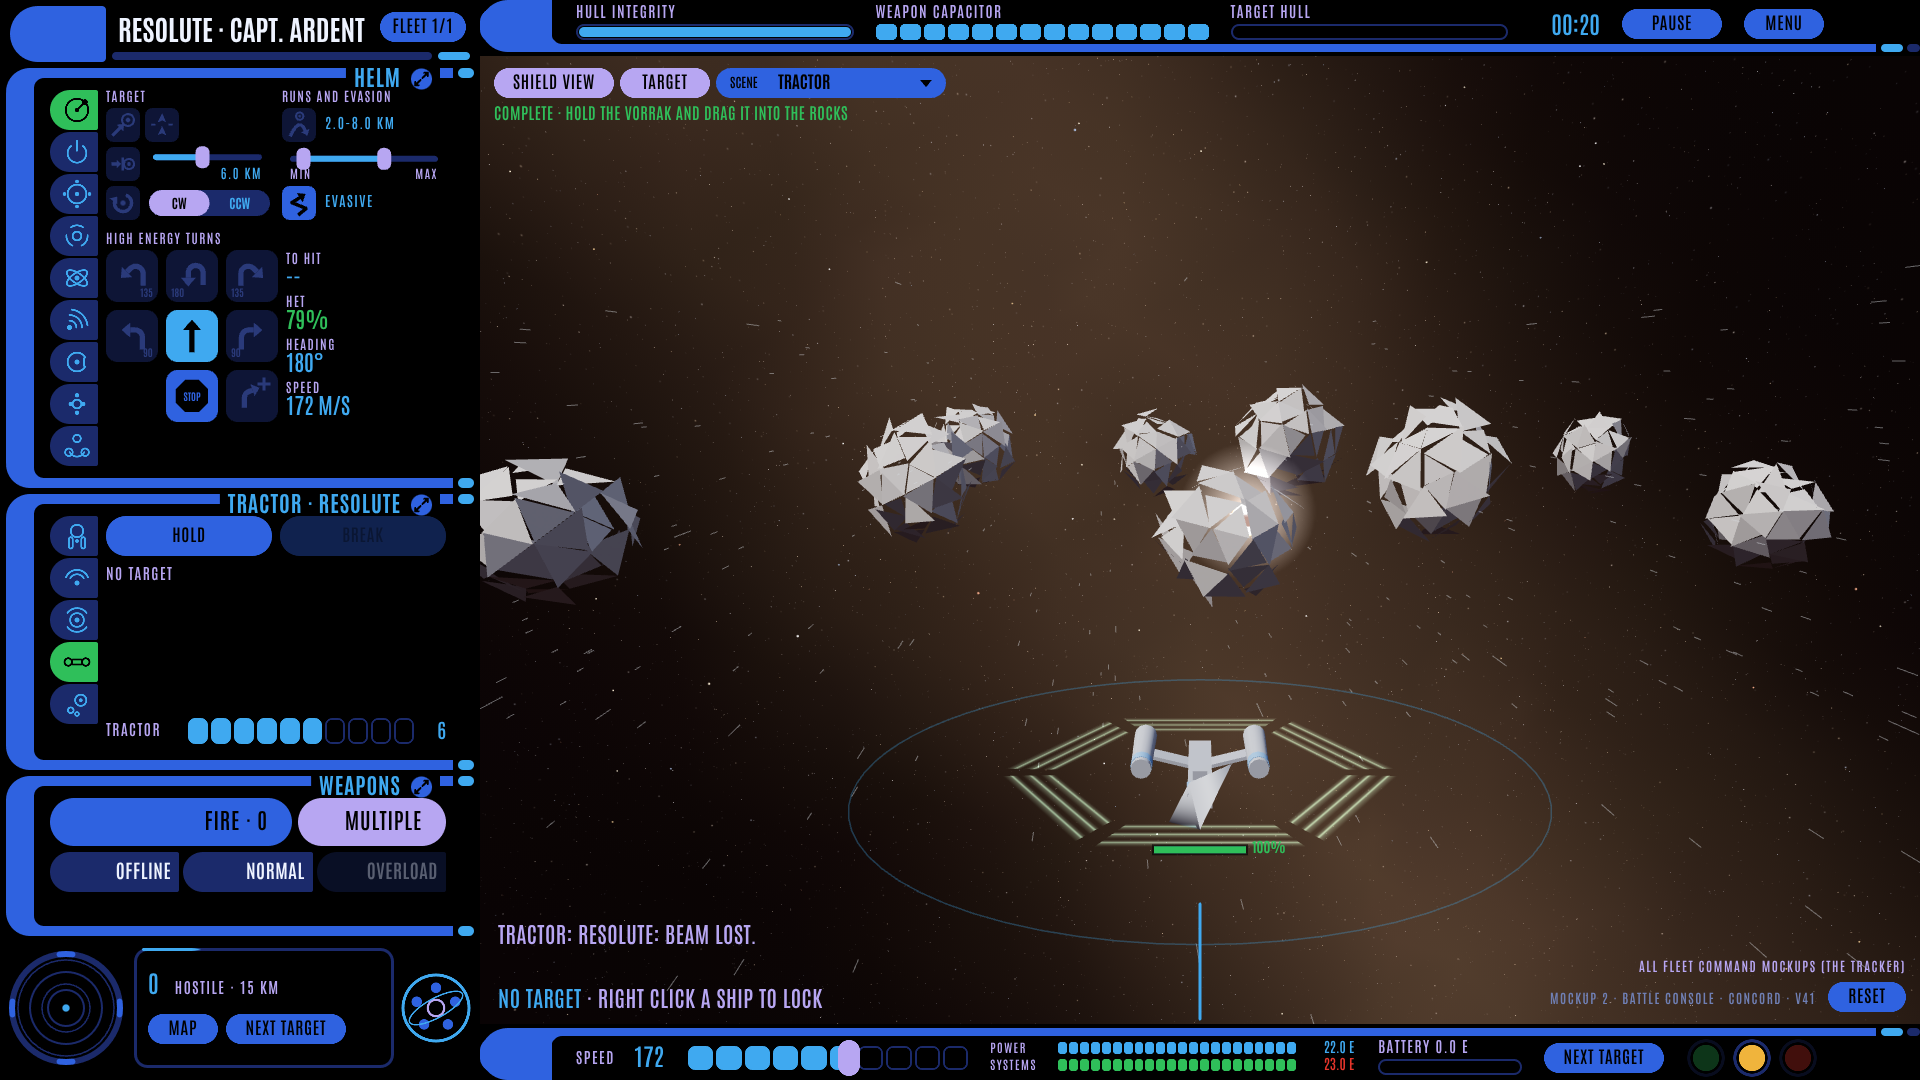
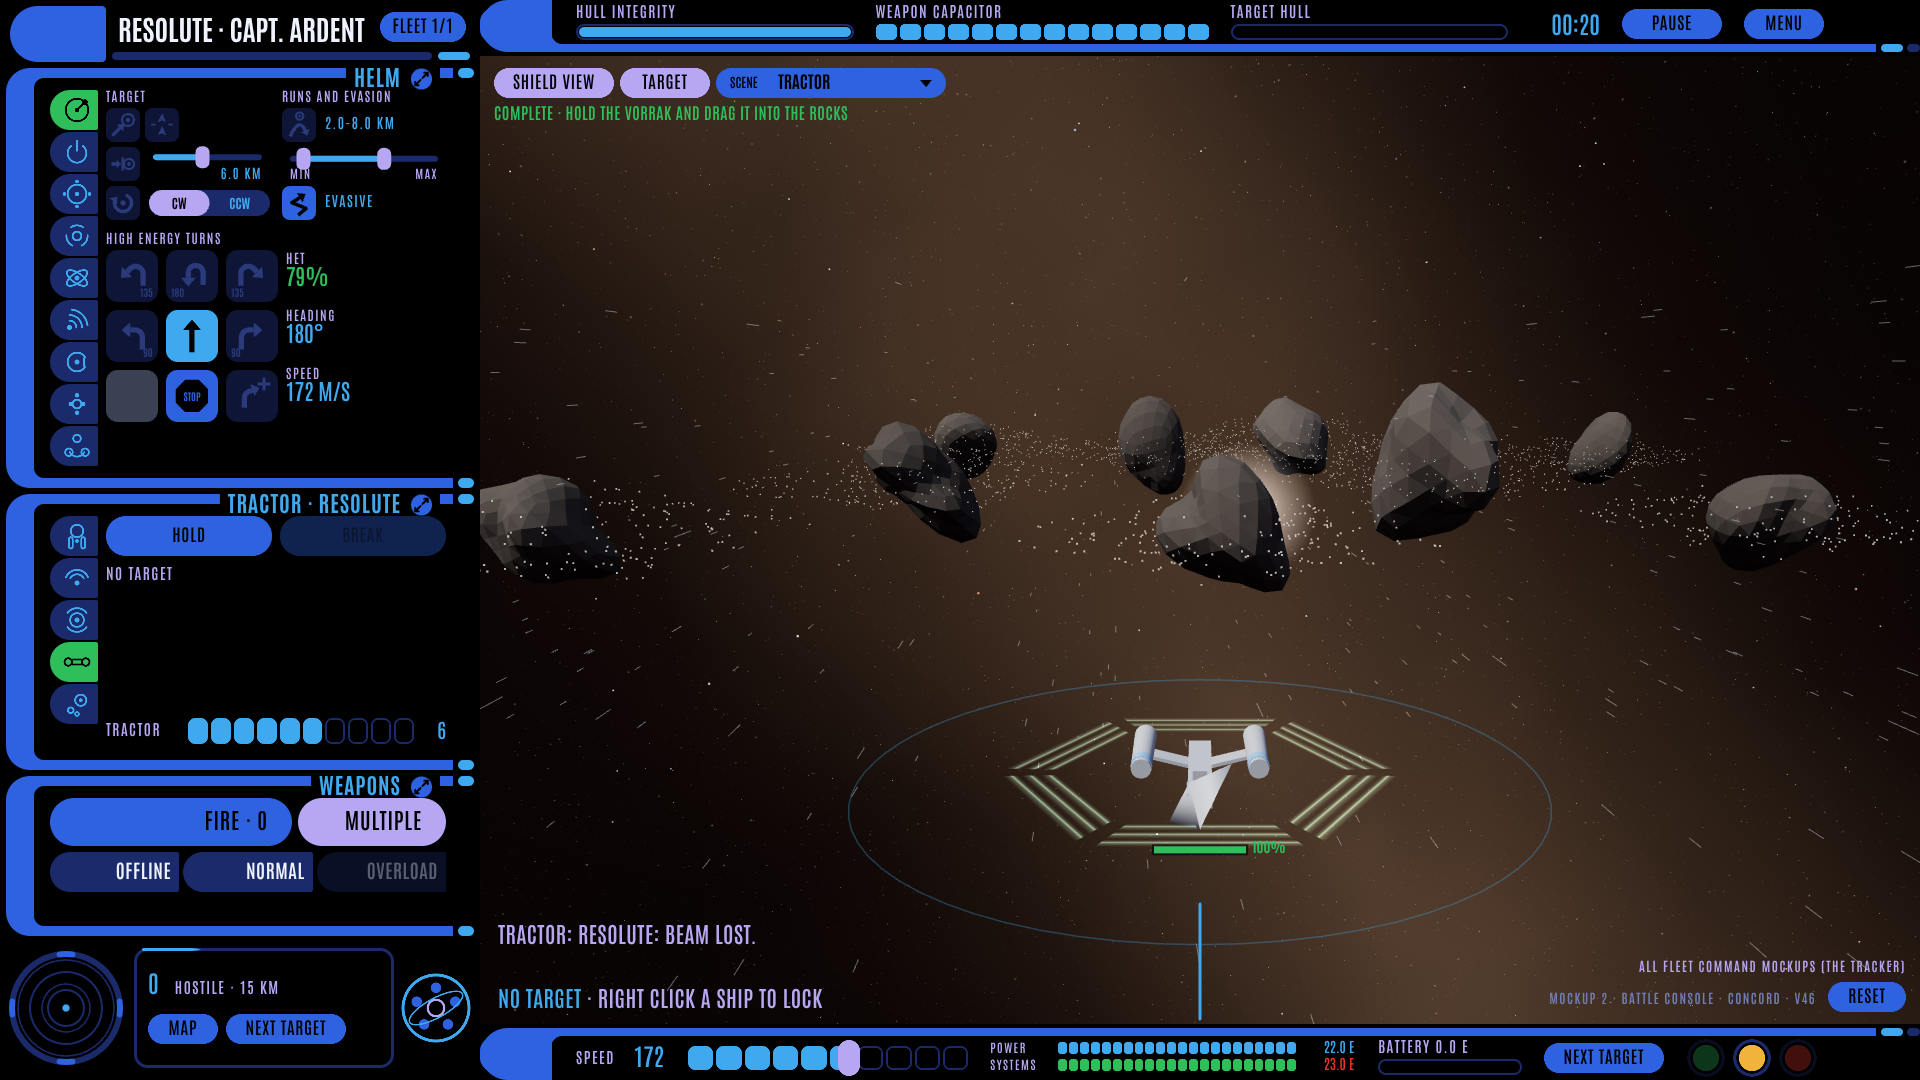
Battle console v46: asteroids rebuilt, micrometeor clouds, no target at the start, an X to release it
Claude-Session: https://claude.ai/code/session_01RGPQuqAYNNJKpzbbbZ3BfB

diff --git a/docs/mockups/battle-console.html b/docs/mockups/battle-console.html
@@ -553,7 +553,11 @@ const TRANSPORT = { range_km: 4 };
 // it, scaled by the speed of the impact (floored, so a nudge still counts), and cuts the ship's speed; one collision
 // per ship per cooldown_s. A ship towed by a tractor beam hits at the speed it is dragged, which is what makes
 // swinging a prisoner into a rock a piloting problem.
-const ROCK = { dmg: 14, speed_ref_m_s: 150, speed_floor: 0.35, speed_frac: 0.3, cooldown_s: 1.5 };
+// The micrometeor cloud round each rock (owner, 2026-11-02: "near asteroids are micro meteor clouds which can damage
+// hull/ship. they are scattered by density depending on how close you fly to a rock"; after the-federation docs/13 3.1,
+// "the halo grinds"): out to halo_x times the rock's radius; inside it a ship takes grind_dps, from 0 at the halo's edge
+// to full at the rock, times its speed over speed_ref (at least grind_floor of it), on the facing along its course.
+const ROCK = { dmg: 14, speed_ref_m_s: 150, speed_floor: 0.35, speed_frac: 0.3, cooldown_s: 1.5, halo_x: 3, grind_dps: 6, grind_floor: 0.2, grit_per_u: 90 };
 // Boarding (after the-federation's boarding.gd and docs/01 section 8, and the owner's survey answers B14 and B15):
 // marines beam through a downed shield facing, inside transporter range. Hit and run: a squad of combat marines and
 // demolition marines goes to one subsystem for raid_s. Shooting it up takes shoot_per_marine off it for each combat
@@ -754,7 +758,9 @@ function newWorld(id = sceneId) {
     rocks: (sc.rocks || []).map((r) => ({ ...r })).concat(planets.map((pl) => ({ x: pl.x, z: pl.z, r: pl.r, name: pl.name, planet: true }))),
     rand: { hit: rng(SCENARIO.seed + 1), dmg: rng(SCENARIO.seed + 2), ai: rng(SCENARIO.seed + 3), reactor: rng(SCENARIO.seed + 4), warp: rng(Math.imul(SCENARIO.seed + 5, 0x9e3779b1) >>> 0), helm: rng(Math.imul(SCENARIO.seed + 6, 0x9e3779b1) >>> 0) } }; // the warp stream's seed is mixed: a plain seed + 5 starts on 0.014, failing nearly any first jump
   W.player = W.ships[0];
-  W.player.target = sc.target;
+  // no target at the start: the captain picks one (owner, 2026-11-02: "I cant really tell if I selected an enemy because
+  // you autoselected from the start"); the scripted shots set theirs
+  W.player.target = null;
   for (const s of W.ships) if (s.side === 1) s.ecm = 1;
   if (sc.setup) sc.setup(W);
   if (sc.armed === false) W.player.mounts = [];
@@ -889,6 +895,13 @@ function hullR(s) { return CLASSES[s.cls].len_m / M_PER_U * 0.35; }
 function rocksStep() {
   for (const s of W.ships) {
     if (!s.alive) continue;
+    // the grind of the micrometeor clouds, gathered and dealt in whole points so the log does not chatter
+    let grind = 0, inCloud = false;
+    for (const r of W.rocks) { if (r.planet) continue; const d = Math.hypot(s.x - r.x, s.z - r.z), halo = r.r * ROCK.halo_x;
+      if (d < halo) { inCloud = true; const f = clamp((halo - d) / (halo - r.r), 0, 1), spd = Math.max(ROCK.grind_floor, Math.abs(s.v) / ROCK.speed_ref_m_s); grind = Math.max(grind, ROCK.grind_dps * f * spd * DT); } }
+    if (inCloud && !s.inCloud && s === W.player) say('Helm', 'Into a micrometeor cloud: the shields are taking grit.');
+    s.inCloud = inCloud; s.grit = (s.grit || 0) + grind;
+    if (s.grit >= 2) { const f = fwd(s.h), dmgG = Math.floor(s.grit); s.grit -= dmgG; damage(s, { x: s.x + f[0] * 5, z: s.z + f[1] * 5, side: -1 }, dmgG, 'hull'); }
     for (const r of W.rocks) {
       const dx = s.x - r.x, dz = s.z - r.z, d = Math.hypot(dx, dz) || 1e-6, R = r.r + hullR(s);
       if (d >= R) continue;
@@ -1205,6 +1218,8 @@ const A = {
   // right click. Clicking and dragging camera around frees up the lock").
   lock: (id) => { const s = W.player, t = ship(id); if (!t || !t.alive || t.side === s.side) return; s.target = id; focus = id; camLock = true; say('Tactical', `Target locked: ${t.name}.`); },
   // The camera lock on its own, from the Target box ("you can lock again under the enemy ship systems view box").
+  // release the target (the X on the Target box): no target, the camera back on your ship
+  unlock: () => { const s = W.player, t = tgt(s); if (!t) return; s.target = null; camLock = false; camTargetView = false; s.engaged = false; say('Tactical', `Target released: ${t.name}.`); },
   // camera lock: back to your own ship (out of target view) and turned to face the target
   camLock: () => { const on = !camLock || camTargetView; camTargetView = false; camLock = on && !!tgt(W.player); },
   // target view: the camera glides to the target and orbits it; off, it glides back to your ship
@@ -2704,23 +2719,45 @@ function explosionsStep(dt) {
 }
 function boomAt(x, z, size) { const sp = new THREE.Sprite(new THREE.SpriteMaterial({ map: glowTex, color: 0xffb070, blending: THREE.AdditiveBlending, depthWrite: false, transparent: true })); sp.position.set(x, 0, z); scene.add(sp); booms.push({ sp, t: 0, size }); }
 const SHOT_POOL = {};
-// Asteroids in the 3D view: a lumpy grey rock per W.rocks entry, rebuilt when the world changes.
-let ROCKS3D = null, rocksFor = null;
+// The rocks (owner, 2026-11-02: "asteroid meshes need work!"): each rock's surface is pushed in and out by one smooth
+// noise of direction, so neighbouring faces stay joined (the first version jittered every triangle's corners apart, and
+// the rocks read as shattered shards); a squash and a lean per rock, craters as dents, a mottled grey-brown per rock.
+// Round each, its micrometeor cloud: fine grit, densest near the rock, thinning to its halo, drifting slowly.
+let ROCKS3D = null, rocksFor = null, GRIT = [];
 function syncRocks() {
   if (rocksFor === W) return; rocksFor = W;
-  if (ROCKS3D) scene.remove(ROCKS3D); ROCKS3D = new THREE.Group(); scene.add(ROCKS3D);
+  if (ROCKS3D) scene.remove(ROCKS3D); ROCKS3D = new THREE.Group(); scene.add(ROCKS3D); GRIT = [];
   const R = rng(SCENARIO.seed + 9);
   for (const r of W.rocks) {
     if (r.planet) continue;
-    const geo = new THREE.IcosahedronGeometry(r.r, 1), pos = geo.attributes.position;
-    for (let i = 0; i < pos.count; i++) { const k = 0.8 + R() * 0.35; pos.setXYZ(i, pos.getX(i) * k, pos.getY(i) * k * 0.8, pos.getZ(i) * k); }
+    // a smooth noise of direction: a few random waves over the sphere, plus craters as smooth dents
+    const waves = Array.from({ length: 8 }, () => [R() * 2 - 1, R() * 2 - 1, R() * 2 - 1, 1.2 + R() * 3.5, R() * 6.28, 0.06 + R() * 0.09]);
+    const craters = Array.from({ length: 4 }, () => { const v = new THREE.Vector3(R() - 0.5, R() - 0.5, R() - 0.5).normalize(); return [v, 0.25 + R() * 0.25, 0.08 + R() * 0.06]; });
+    const sq = [1, 0.55 + R() * 0.25, 0.7 + R() * 0.45];
+    const geo = new THREE.IcosahedronGeometry(r.r, 3), pos = geo.attributes.position, v = new THREE.Vector3();
+    for (let i = 0; i < pos.count; i++) {
+      v.set(pos.getX(i), pos.getY(i), pos.getZ(i)).normalize();
+      let k = 1; for (const [a, b, c, f, ph, amp] of waves) k += amp * Math.sin(f * (a * v.x + b * v.y + c * v.z) + ph);
+      for (const [cv, cr, depth] of craters) { const d = v.distanceTo(cv); if (d < cr) k -= depth * (1 - (d / cr) ** 2); }
+      pos.setXYZ(i, v.x * r.r * k * sq[0], v.y * r.r * k * sq[1], v.z * r.r * k * sq[2]);
+    }
     geo.computeVertexNormals();
-    const m = new THREE.Mesh(geo, new THREE.MeshStandardMaterial({ color: 0x6d6a66, roughness: 0.95, flatShading: true }));
+    // a dark grey-brown (linear values, so they read darker than they look in numbers)
+    const shadeK = 0.7 + R() * 0.5, col = new THREE.Color(0.075 * shadeK, 0.066 * shadeK, 0.058 * shadeK);
+    const m = new THREE.Mesh(geo, new THREE.MeshStandardMaterial({ color: col, roughness: 1, metalness: 0.05, flatShading: true }));
     m.position.set(r.x, 0, r.z); m.rotation.set(R() * 3, R() * 3, R() * 3); ROCKS3D.add(m);
+    // the micrometeor cloud
+    const n = Math.round(ROCK.grit_per_u * r.r), gp = new Float32Array(n * 3), halo = r.r * ROCK.halo_x, base = [];
+    for (let i = 0; i < n; i++) { const a = R() * 2 * P, u = R(), rad = r.r * 1.05 + (halo - r.r) * u * u, y = (R() - 0.5) * r.r * 1.2 * (1 - u); base.push([a, rad, y, 0.05 + R() * 0.1]); gp.set([r.x + Math.cos(a) * rad, y, r.z + Math.sin(a) * rad], i * 3); }
+    const gg = new THREE.BufferGeometry(); gg.setAttribute('position', new THREE.BufferAttribute(gp, 3));
+    const pts = new THREE.Points(gg, new THREE.PointsMaterial({ color: 0xb8a68f, size: 0.13, transparent: true, opacity: 0.85, depthWrite: false })); pts.frustumCulled = false;
+    ROCKS3D.add(pts); GRIT.push({ r, base, gp, gg });
   }
 }
+// The grit drifts slowly round its rock.
+function gritStep(dt) { for (const c of GRIT) { for (let i = 0; i < c.base.length; i++) { const b = c.base[i]; b[0] += b[3] * dt / Math.max(1, b[1] * 0.3); c.gp[i * 3] = c.r.x + Math.cos(b[0]) * b[1]; c.gp[i * 3 + 2] = c.r.z + Math.sin(b[0]) * b[1]; } c.gg.attributes.position.needsUpdate = true; } }
 function syncScene(dt) {
-  syncRocks(); syncPlanets(); syncWells();
+  syncRocks(); gritStep(dt); syncPlanets(); syncWells();
   for (const s of W.ships) {
     const o = modelFor(s); o.g.visible = s.alive; if (!s.alive) continue;
     o.g.position.set(s.x, 0, s.z); o.g.rotation.y = P - s.h;
@@ -2971,14 +3008,18 @@ function uiView() {
   if (showTargetCam && t) {
     const ir = insetRect(), bx = vx + ir[0], by = vy + ir[1];
     g.fillStyle = '#000'; g.fillRect(bx + 2, by + 2, ir[2] - 4, ir[3] - 4); nine('frame.inset', bx, by, ir[2], ir[3]);
-    LBL(`Target · ${t.name}`, bx + 18, by + 34, ir[2] - 36, CC.sky, 'left', 18);
+    LBL(`Target · ${t.name}`, bx + 18, by + 34, ir[2] - 60, CC.sky, 'left', 18);
+    // the X that releases the target
+    { const xs = bx + ir[2] - 34, ys = by + 14, st = hit('v.untarget', xs, ys, 24, 24, { click: A.unlock, tip: 'Release target' });
+      g.fillStyle = st.hot ? CC.alert : CC.signal; g.beginPath(); g.arc(xs + 12, ys + 12, 12, 0, 2 * P); g.fill();
+      g.strokeStyle = '#000'; g.lineWidth = 2.6; g.lineCap = 'round'; g.beginPath(); g.moveTo(xs + 7, ys + 7); g.lineTo(xs + 17, ys + 17); g.moveTo(xs + 17, ys + 7); g.lineTo(xs + 7, ys + 17); g.stroke(); }
     const tg = inBox(bx + 14, by + 44, ir[2] - 28, ir[3] - 52, (c, w, h) => drawSSD(c, w, h, t, false, false, 'tgt')); ssdHits('tgt', bx + 14, by + 44, tg, t, false);
     const hw5 = (ir[2] - 6) / 2;
     button('v.tview', bx, by + ir[3] + 6, hw5, 30, 'Target view', A.targetView, { sel: () => camTargetView, center: true });
     button('v.camlock', bx + hw5 + 6, by + ir[3] + 6, hw5, 30, camLock && !camTargetView ? 'Camera locked' : 'Camera lock', A.camLock, { sel: () => camLock && !camTargetView, center: true });
   }
   if (lock) button('v.lock', lock[0], lock[1], 140, 30, 'Lock target', () => A.lock(lock[2]), { center: true });
-  LBL('Mockup 2 · Battle console · Concord · v45', vx + vw - 104, vy + vh - 20, 0, '#6f7fb4', 'right', 13);
+  LBL('Mockup 2 · Battle console · Concord · v46', vx + vw - 104, vy + vh - 20, 0, '#6f7fb4', 'right', 13);
   button('v.reset', vx + vw - 92, vy + vh - 42, 78, 30, 'Reset', A.reset, { center: true });
   if (sceneOpen) {
     // a click anywhere else closes the list
@@ -3068,7 +3109,7 @@ function frame(now) {
 // Named shots for tools/mockups/shoot.mjs: each replays the battle from its seed for a fixed number of steps.
 function scripted(steps, then, sc = 'battle') {
   frozen = true; expanded = null; powerMode = 'alloc'; station = 'helm'; shipTab = 'ssd'; menuOpen = false; showShields = true; showTargetCam = true; lastFollow = null; placingMine = false; trTab = 'hit'; invDest = null; Object.assign(raidPick, { marines: 2, demo: 0 }); Object.assign(capPick, { marines: 8, demo: 0, medics: 1, engineers: 1, hackers: 1, pilots: 1 });
-  newWorld(sc); camLock = false; camTargetView = false; focus = sc === 'battle' ? 'ashkar' : SCENES[sc].target; fleetPick = sc === 'battle' ? 'tallis' : 'resolute';
+  newWorld(sc); W.player.target = SCENES[sc].target; camLock = false; camTargetView = false; focus = sc === 'battle' ? 'ashkar' : SCENES[sc].target; fleetPick = sc === 'battle' ? 'tallis' : 'resolute';
   for (const o of MODELS.values()) scene.remove(o.g); MODELS.clear();
   if (sc === 'battle') { W.player.engaged = true; W.player.order = 'intercept'; W.player.vOrder = maxSpeed(W.player); }
   placingHet = false;

diff --git a/docs/mockups/tracker.html b/docs/mockups/tracker.html
@@ -111,7 +111,7 @@ const MOCKUPS = [
     url: 'https://claude.ai/artifact/UBbAouwAU3JvcbGf6MhzLt', published: '2026-10-30', version: 5,
     summary: 'Main menu, skirmish (scenario, point budget, fleet and loadout), the campaign hex map with standees, port panels and missions, deploy, a stand-in battle, results, and back to the map.' },
   { id: 'M2', title: 'In-game UI', change: 'battle-console', page: 'docs/mockups/battle-console.html',
-    url: 'https://claude.ai/artifact/9yertq3bYQRmFiDE7N9eBs', published: '2026-11-02', version: 45,
+    url: 'https://claude.ai/artifact/9yertq3bYQRmFiDE7N9eBs', published: '2026-11-02', version: 46,
     summary: 'The battle console in the Concord skin around a live stand-in battle, desktop first: nine stations and five ship pages on narrow columns of icon tabs named on hover, the ship systems display, weapons, radar and tactical map, a speed handle, Power over Systems with the battery, and the power station\'s Reactor mode: a diagram of the core, coils and coolant loops worked by hand, with a meltdown to avoid. Every panel works and expands.' },
   { id: 'M3', title: 'Look dev', change: 'look-dev', page: 'docs/mockups/look-dev.html',
     url: '', published: '', version: 0,

diff --git a/openspec/changes/battle-console/design.md b/openspec/changes/battle-console/design.md
@@ -288,6 +288,23 @@ The energy in the tractor is drawn every second like any other system, so holdin
 shields. In the 3D view the beam is a pale line from holder to held, brighter as the grip tightens. An enemy holds you
 only by turning your beam; whether enemies should start a hold on their own is B11.
 
+## 4p. Asteroids rebuilt, micrometeor clouds, choosing the target (version 46)
+
+- **Asteroid meshes** (owner, 2026-11-02: "asteroid meshes need work!"): the first version jittered each triangle's
+  corners on their own, tearing the faces apart into shards. Each rock's surface is now pushed in and out by one smooth
+  noise of direction (eight waves) with crater dents, squashed and leaning per rock, in a dark grey-brown that varies
+  from rock to rock, so the faces stay joined.
+- **Micrometeor clouds** (owner: "near asteroids are micro meteor clouds which can damage hull/ship. they are scattered
+  by density depending on how close you fly to a rock"; after the-federation docs/13 3.1, "the halo grinds"): fine grit
+  round each rock, densest at the rock and thinning to three rock radii, drifting slowly. Inside the halo a ship takes up
+  to 6 points a second, from nothing at the halo's edge to full at the rock, times its speed over 150 m/s (at least 20 %
+  of it), on the facing along its course, shields first; the log says so as you enter. Measured: 5 s through a cloud at
+  250 m/s took 11 points off the shields.
+- **No target at the start** (owner: "I cant really tell if I selected an enemy because you autoselected from the start,
+  can I manually select or deselect an enemy? add a little x to the corner of target view"): the captain picks a target
+  (right click, or Next target), and an **X** in the Target box's corner releases it (the camera back on your ship, any
+  helm order toward it cancelled). The scripted shots still set their target.
+
 ## 4o. Mine ranges, and the view's object pools (version 45)
 
 Owner, 2026-11-02: "mine needs range animation still here, also why does it lag when i have mine and rotate the cam with

diff --git a/docs/artifacts/battle-console/README.md b/docs/artifacts/battle-console/README.md
@@ -63,3 +63,4 @@
 - Version 43 published 2026-11-02, version id `1793604386-ad3e`: a blank grey key fills the HET pad's empty corner.
 - Version 44 published 2026-11-02, version id `1793604519-3064`: the chance to hit is per weapon, on each weapon's hover card and its details; removed from the helm and the view's readout line.
 - Version 45 (2026-11-02, built; published with version 46): placed mines keep their range bullseye; shots, mines and craft drawn from a pool per kind (no per-frame rebuilds).
+- Version 46 published 2026-11-02, version id `1793605009-055c`: asteroids rebuilt (one smooth noise per rock, craters, dark grey-brown); micrometeor clouds round each rock that grind the shields by closeness and speed; no target at the start, and an X on the Target box to release one. (Includes version 45: laid mines show their range; a 3D object pool per kind.)

diff --git a/mockup-work.md b/mockup-work.md
@@ -22,7 +22,7 @@ account and every link here is updated.
 | # | Mockup | Stage | OpenSpec change | Page | Link |
 |---|---|---|---|---|---|
 | 1 | Primary game flow | Drafted (2026-10-30, v5) | `game-flow` | `docs/mockups/game-flow.html` | https://claude.ai/artifact/UBbAouwAU3JvcbGf6MhzLt |
-| 2 | In-game UI | Drafted (2026-11-02, v45) | `battle-console` | `docs/mockups/battle-console.html` | https://claude.ai/artifact/9yertq3bYQRmFiDE7N9eBs |
+| 2 | In-game UI | Drafted (2026-11-02, v46) | `battle-console` | `docs/mockups/battle-console.html` | https://claude.ai/artifact/9yertq3bYQRmFiDE7N9eBs |
 | 3 | Look dev | Listed | `look-dev` (to write) | `docs/mockups/look-dev.html` | |
 | 4 | Console skins | Drafted (2026-10-31, v25) | `console-skins` | `docs/mockups/console-skins.html` | https://claude.ai/artifact/UTpgsPvZJrLfkEUmJN7CVb |
 
